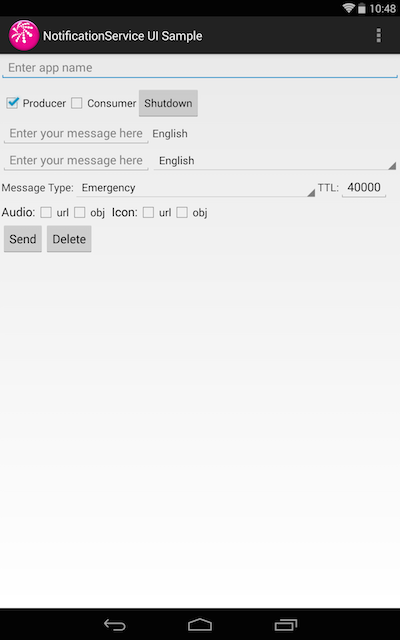
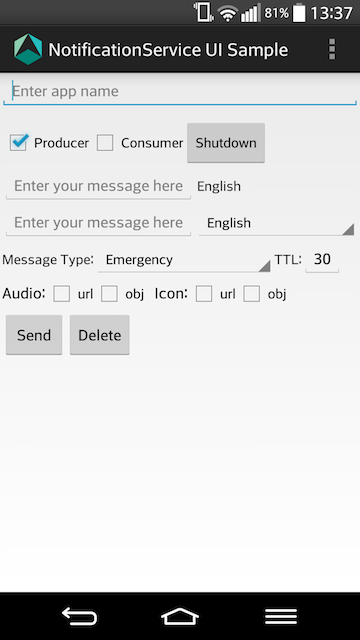
ASABASE-667 Onboarding Samples Docs/Process
clean up spelling mistakes and rephrased some sentences
add additional tips and information about other features of the notification sample app for android
update screenshots
add install process and path to notification sample apk. rephrase steps
update android notification copy to reflect that of the ios equivalent
update linux notification sample to include example output
add border to ios notification app screenshots
minor cleanup changes
update scripts, paths and output in base thin notification sample guide
fix use of wrong environment variable in path

diff --git a/docs/develop/run-sample-apps/notification/linux.md b/docs/develop/run-sample-apps/notification/linux.md
@@ -19,18 +19,94 @@ AJ_SERVICES_COMMON_LIB=$AJ_ROOT/core/alljoyn/build/linux/$TARGET_CPU/debug/dist/
 export LD_LIBRARY_PATH=$AJ_CPP_LIB:$AJ_NOTIFICATION_LIB:$AJ_SERVICES_COMMON_LIB:$LD_LIBRARY_PATH
 ```
 
+### Run the ProducerBasic Sample App
+
+In one of the terminal windows, run `ProducerBasic`:
+
+```sh
+$AJ_ROOT/core/alljoyn/build/linux/$TARGET_CPU/debug/dist/notification/bin/ProducerBasic
+```
+
+The output from `ProducerBasic` should look like this:
+```
+$AJ_ROOT/core/alljoyn/build/linux/$TARGET_CPU/debug/dist/notification/bin/ProducerBasic
+lstat: No such file or directory
+   0.210 TRACE    Notification external         .../NotificationService.cc:62 | NotificationService::initSend
+   0.210 TRACE    Notification external         ...n/cpp/src/Transport.cc:175 | Transport::startSenderTransport
+   0.211 TRACE    Notification external         ...n/cpp/src/Transport.cc:414 | Transport::cleanupNotificationProducerReceiverInternal start
+   0.211 TRACE    Notification external         ...n/cpp/src/Transport.cc:420 | Transport::cleanupNotificationProducerReceiverInternal end
+   0.211 TRACE    Notification external         ...n/cpp/src/Transport.cc:527 | Transport::cleanupNotificationProducerSender start
+   0.211 TRACE    Notification external         ...ionProducerReceiver.cc:106 | NotificationProducerReceiver::ReceiverThreadWrapper()
+   0.212 DEBUG    Notification external         ...n/cpp/src/Transport.cc:222 | Transport::startSenderTransport - registered NotificationProducerReceiver successfully.
+   0.213 DEBUG    Notification external         ...n/cpp/src/Transport.cc:237 | bind Session Port successfully for notification producer service
+   0.213 TRACE    Notification external         ...n/cpp/src/Transport.cc:459 | Transport::cleanupNotificationDismisserReceiverInternal start
+   0.213 TRACE    Notification external         ...n/cpp/src/Transport.cc:465 | Transport::cleanupNotificationDismisserReceiverInternal end
+   0.213 DEBUG    Notification external         ...ationDismisserSender.cc:47 | NotificationDismisserSender()  - Got objectpath=/notificationDismisser
+   0.213 TRACE    Notification external         ...n/cpp/src/Transport.cc:260 | Started Sender successfully
+   0.214 TRACE    Notification external         ...c/NotificationSender.cc:51 | Send Message called
+   0.214 DEBUG    Notification external         .../src/PayloadAdapter.cc:424 | Attempting to send messageId: 1879962717
+   0.215 DEBUG    Notification external         ...ionTransportProducer.cc:65 | Sent signal successfully
+   0.215 HL_DBG   Notification external         .../src/PayloadAdapter.cc:429 | Message sent successfully with messageId: 1879962717
+Notification sent!
+Hit Ctrl+C to exit the application
+```
+
 ### Run the ConsumerService Sample App
 
-In one of the terminal windows, run `ConsumerService`:
+In the other terminal window, run `ConsumerService`:
 
 ```sh
 $AJ_ROOT/core/alljoyn/build/linux/$TARGET_CPU/debug/dist/notification/bin/ConsumerService
 ```
 
-### Run the ProducerBasic Sample App
+The output from `ConsumerService` should look like this:
+```
+Begin Consumer Application. (Press CTRL+C to end application)
+Enter in a list of app names (separated by ';') you would like to receive notifications from.
+Empty list means all app names.
 
-In the other terminal window, run `ProducerBasic`:
+1.408 DEBUG    Notification external         ...NotificationService.cc:208 | Init receive
+1.408 DEBUG    Notification external         ...ionTransportConsumer.cc:73 | Registered the SignalHandler successfully
+1.408 DEBUG    Notification external         ...n/cpp/src/Transport.cc:292 | Match String is: type='signal',sessionless='t',interface='org.alljoyn.Notification'
+1.409 TRACE    Notification external         ...n/cpp/src/Transport.cc:414 | Transport::cleanupNotificationProducerReceiverInternal start
+1.409 TRACE    Notification external         ...n/cpp/src/Transport.cc:420 | Transport::cleanupNotificationProducerReceiverInternal end
+1.410 TRACE    Notification external         ...ionDismisserReceiver.cc:42 | NotificationDismisserReceiver::NotificationDismisserReceiver() - called()
+1.410 DEBUG    Notification external         ...ionDismisserReceiver.cc:79 | Registered the SignalHandler successfully
+1.410 DEBUG    Notification external         ...n/cpp/src/Transport.cc:333 | NotificationDismisserReceiver Match String is: type='signal',sessionless='t',interface='org.alljoyn.Notification.Dismisser'
+1.413 TRACE    Notification external         ...n/cpp/src/Transport.cc:459 | Transport::cleanupNotificationDismisserReceiverInternal start
+1.413 TRACE    Notification external         ...n/cpp/src/Transport.cc:465 | Transport::cleanupNotificationDismisserReceiverInternal end
+1.413 DEBUG    Notification external         ...ationDismisserSender.cc:47 | NotificationDismisserSender()  - Got objectpath=/notificationDismisser
+1.413 DEBUG    Notification external         ...n/cpp/src/Transport.cc:364 | Started Receiver successfully
+Waiting for notifications.
+1.679 ****** ERROR IPNS    IpNameServiceImpl .../IpNameServiceImpl.cc:7650 | Ignoring advertisement from 192.168.1.93 for 192.168.2.136 received on en0: ER_WARNING
+1.976 ****** ERROR IPNS    IpNameServiceImpl .../IpNameServiceImpl.cc:7650 | Ignoring advertisement from 192.168.1.93 for 192.168.2.136 received on en0: ER_WARNING
+1.977 ****** ERROR IPNS    IpNameServiceImpl .../IpNameServiceImpl.cc:7650 | Ignoring advertisement from 192.168.1.93 for 192.168.2.136 received on en0: ER_WARNING
+1.978 ****** ERROR IPNS    IpNameServiceImpl .../IpNameServiceImpl.cc:7650 | Ignoring advertisement from 192.168.1.93 for 192.168.2.136 received on en0: ER_WARNING
+2.474 DEBUG    Notification lepDisp1_1       ...ionTransportConsumer.cc:84 | Received Message from producer.
+******************** Begin New Message Received ********************
+Message Id: 1814180121
+Device Id: ProducerBasic
+Device Name: ProducerBasic
+App Id: 30464642393946452D374141382D3432
+App Name: DISPLAY_ALL
+Sender BusName: :_FVRAlI2.2
+Message Type 0 emergency
+Notification version: 2
+Language: en  Message: hello world
+Other parameters included:
+OriginalSender: :_FVRAlI2.2
+******************** End New Message Received ********************
 
-```sh
-$AJ_ROOT/core/alljoyn/build/linux/$TARGET_CPU/debug/dist/notification/bin/ProducerBasic
+Notification action (0-Nothing 1-Dismiss):
+2.910 ****** ERROR IPNS    IpNameServiceImpl .../IpNameServiceImpl.cc:7650 | Ignoring advertisement from 192.168.1.93 for 192.168.2.136 received on en0: ER_WARNING
+3.207 ****** ERROR IPNS    IpNameServiceImpl .../IpNameServiceImpl.cc:7650 | Ignoring advertisement from 192.168.1.93 for 192.168.2.136 received on en0: ER_WARNING
+3.208 ****** ERROR IPNS    IpNameServiceImpl .../IpNameServiceImpl.cc:7650 | Ignoring advertisement from 192.168.1.93 for 192.168.2.136 received on en0: ER_WARNING
+3.511 ****** ERROR IPNS    IpNameServiceImpl .../IpNameServiceImpl.cc:7650 | Ignoring advertisement from 192.168.1.93 for 192.168.2.136 received on en0: ER_WARNING
+5.355 ****** ERROR IPNS    IpNameServiceImpl .../IpNameServiceImpl.cc:7650 | Ignoring advertisement from 192.168.1.93 for 192.168.2.136 received on en0: ER_WARNING
+5.362 ****** ERROR IPNS    IpNameServiceImpl .../IpNameServiceImpl.cc:7650 | Ignoring advertisement from 192.168.1.93 for 192.168.2.136 received on en0: ER_WARNING
+5.363 ****** ERROR IPNS    IpNameServiceImpl .../IpNameServiceImpl.cc:7650 | Ignoring advertisement from 192.168.1.93 for 192.168.2.136 received on en0: ER_WARNING
+5.364 ****** ERROR IPNS    IpNameServiceImpl .../IpNameServiceImpl.cc:7650 | Ignoring advertisement from 192.168.1.93 for 192.168.2.136 received on en0: ER_WARNING
+0
+Nothing planed to do with the notification message id:1814180121
+End handling notification!!!
 ```

diff --git a/docs/develop/run-sample-apps/notification/thin-linux.md b/docs/develop/run-sample-apps/notification/thin-linux.md
@@ -13,77 +13,45 @@
    # <TARGET CPU> can be either x86_64, x86, or whatever value you set for CPU= when running SCons.
    export TARGET_CPU=<TARGET CPU>
    cd $AJ_ROOT/core/alljoyn/build/linux/$TARGET_CPU/release/dist/cpp/bin
+   
+   BASE_THIN_DIST_LIB=$AJ_ROOT/services/base_tcl/dist/lib
+   CORE_THIN_DIST_LIB=$AJ_ROOT/core/ajtcl/dist/lib
 
-   export LD_LIBRARY_PATH=`pwd`/../lib:$LD_LIBRARY_PATH
+   export LD_LIBRARY_PATH=`pwd`/../lib:$BASE_THIN_DIST_LIB:$CORE_THIN_DIST_LIB:$LD_LIBRARY_PATH
    # This sets the library path to load the liballjoyn.so shared library.
 
     ./alljoyn-daemon &
     ```
 
-3. Launch NotificationConsumerSample (in a new terminal).
+3. Launch NotificationConsumerSample (in a new terminal). Ensure LD_LIBRARY_PATH is set as above.
 
    ```sh
-   cd $AJ_ROOT/services/sample_apps/build/
+   cd $AJ_ROOT/services/base_tcl/build/release/samples
    ./NotificationConsumerSample
    ```
 
-4. Launch NotificationProducerSample (in a new terminal).
+4. Launch NotificationProducerSample (in a new terminal). Ensure LD_LIBRARY_PATH is set as above.
 
    ```sh
-   cd $AJ_ROOT/services/sample_apps/build/
+   cd $AJ_ROOT/services/base_tcl/build/release/samples
    ./NotificationProducerSample
    ``` 
 
-The output from NotificationProducerSample should look like this:
-
-```
-./NotificationProducerSample 
-000.000 PropertyStore.c:201 Set key [DeviceId] defaultValue [e7471a6ad4761b17ad169a3146fe6d1a]
-000.000 PropertyStore.c:148 Has key [DeviceName] default Value []
-000.000 PropertyStore.c:201 Set key [DeviceName] defaultValue [COMPANY GENERIC BOARD 6fe6d1a]
-000.000 PropertyStore.c:144 Has key [DeviceName] runtime Value [COMPANY GENERIC BOARD 6fe6d1a]
-Attempting to connect to bus 'org.alljoyn.BusNode'
-Connected to Routing Node with BusUniqueName=:yEmGBABV.3
-001.084 NotificationProducer.c:512 In SendNotification
-001.084 PropertyStore.c:144 Has key [DeviceId] runtime Value [e7471a6ad4761b17ad169a3146fe6d1a]
-001.084 PropertyStore.c:148 Has key [DefaultLanguage] default Value [en]
-001.084 PropertyStore.c:144 Has key [DeviceName] runtime Value [COMPANY GENERIC BOARD 6fe6d1a]
-001.084 PropertyStore.c:144 Has key [AppId] runtime Value [e7471a6ad4761b17ad169a3146fe6d1a]
-001.084 PropertyStore.c:148 Has key [AppName] default Value [Notifier]
-001.084 NotificationProducer.c:560 Generating random number for notification id
-001.084 NotificationProducer.c:481 In SendNotifySignal
-001.084 NotificationProducer.c:493 ***************** Notification id 860073951 delivered successfully with serial number 5 *****************
-AllJoyn disconnect
-```
+   This won't produce output (run the sample from ```$AJ_ROOT/services/base_tcl/build/debug/samples``` for output)
 
 The output from NotificationConsumerSample should look like this:
 
 ```
 ./NotificationConsumerSample 
-Attempting to connect to bus 'org.alljoyn.BusNode'
-Connected to Routing Node with BusUniqueName=:yEmGBABV.2
-000.000 NotificationConsumer.c:167 In SetSignalRules()
-000.000 NotificationConsumer.c:168 Adding Dismisser interface match.
-000.000 NotificationConsumer.c:176 Adding Notification interface match.
-000.000 NotificationConsumer.c:208 Adding Superagent interface match.
-000.099 aj_msg.c:1087 Discarding bad message AJ_ERR_NO_MATCH
-000.136 aj_msg.c:1087 Discarding bad message AJ_ERR_NO_MATCH
-000.136 aj_msg.c:1087 Discarding bad message AJ_ERR_NO_MATCH
-024.480 NotificationConsumer.c:749 Received Producer signal.
-024.480 NotificationConsumer.c:287 Received notification signal from sender :yEmGBABV.3
-024.480 aj_msg.c:1195 AJ_UnmarshalMsg(): AJ_ERR_NO_MORE
-024.480 aj_msg.c:1195 AJ_UnmarshalMsg(): AJ_ERR_NO_MORE
-024.480 aj_msg.c:1195 AJ_UnmarshalMsg(): AJ_ERR_NO_MORE
-024.480 aj_msg.c:1195 AJ_UnmarshalMsg(): AJ_ERR_NO_MORE
 ******************** Begin New Message Received ********************
-Message Id: 860073951
+Message Id: 1000189632
 Version: 2
-Device Id: e7471a6ad4761b17ad169a3146fe6d1a
-Device Name: COMPANY GENERIC BOARD 6fe6d1a
-App Id: BC096200000000001F01000003000000
-App Name: Notifier
+Device Id: 1609870266dc3e02f926ef98623b5126
+Device Name: COMPANY GENERIC BOARD 23b5126
+App Id: 1609870266DC3E02F926EF98623B5126
+App Name: Company A(EN)
 Message Type: 2
-OriginalSender bus unique name: :yEmGBABV.3
+OriginalSender bus unique name: :qWt-d9Uz.3
 Language: en  Message: Hello AJ World.
 Language: de-AT  Message: Hallo AJ Welt.
 Other parameters included:
@@ -97,8 +65,6 @@ Language: de-AT  Audio URL http://www.getAudio2.org
 Rich Content Icon Object Path: /icon/MyDevice
 Rich Content Audio Object Path: /audio/MyDevice
 ******************** End New Message Received ********************
-036.490 aj_guid.c:76 LookupName(): NULL
-036.491 aj_guid.c:76 LookupName(): NULL
 ```
 
 [build-thin-linux]: /develop/building/thin-linux

diff --git a/docs/develop/run-sample-apps/notification/android.md b/docs/develop/run-sample-apps/notification/android.md
@@ -1,20 +1,36 @@
 # Android - Notification Sample Apps
 
 ## Running Android NotificationServiceUISample
+
+### Prerequisites
+Open a terminal and navigate to the AllJoyn&trade; root dir, then, with an android device connected:
+
+```sh
+export AJ_ROOT=`pwd`
+adb install $AJ_ROOT/services/base/notification/java/sample_applications/android/NotificationServiceUISample/bin/NotificationServiceUISample.apk
+```
+
+### App Flow
 The Android NotificationServiceUISample provides a sample 
-Android implementation of an app that uses the Notification 
-service framework, which allows a user to both send and receive notifications.
+Android implementation of an app that uses the Notification service framework.
+
+You can use the NotificationServiceUISample app to act as a Notification Producer, a Notification Consumer, or both a Producer and Consumer, simultaneously.
+If you run the app as both a producer and consumer simultaneously, you will be able to send and receive notifications on a single Android device.
+
+Alternatively, you can run the app as a Producer on one device, and as a Consumer on another device.
+
+**NOTE:** Both devices must be on the same Wi-Fi network.
 
 1. On two or more devices, load the NotificationServiceUISample.apk, 
 and start app `NotificationService UI Sample`.
 
   ![][1.StartScreen]
 
-2. Check the **Consumer** checkbox for those app instances you want to receive notifications.
+2. Check the **Consumer** checkbox for the app instances which will be receiving notifications.
 
   ![][2.CheckConsumerCheckbox]
 
-3. Check the **Producer** checkbox for those app instances to which you want to send notifications.
+3. Check the **Producer** checkbox for the app instances which will be sending notifications.
 
   ![][3.CheckProducerCheckbox]
 
@@ -27,6 +43,17 @@ display the notification text and message type.
 
   ![][5.ConsumerReceivesHelloWorld]
 
+## Additional Tips
+You can select received notifications from the list to dismiss them or execute an action. Dismissing the notification will stop
+the producer from broadcasting the notification. Executing an action will toggle a remote bus objects boolean and display a toast indicating its current state.
+
+To receive a notification in a different language change the consumer language dropdown to your preferred choice. Note, this will not update
+notifications that were previously received and are currently displayed in the list.
+To send a notification in a different language, use the secondary message input and select the language of choice from the producers dropdown.
+
+To see an example of a notification with a url and object path select the audio or icon checkboxes before sending a notification from the producer.
+
+Pressing the "Delete" button will stop the producer from broadcasting the notification with the currently selected message type.
 
 [1.StartScreen]: /files/develop/run-sample-apps/android-notification-sample/1.StartScreen.png
 [2.CheckConsumerCheckbox]: /files/develop/run-sample-apps/android-notification-sample/2.CheckConsumerCheckbox.png

diff --git a/docs/learn/base-services/notification/index.md b/docs/learn/base-services/notification/index.md
@@ -81,16 +81,16 @@ is encouraged to fetch the control panel at the object path and render
 it to the user. Typically this is done to allow the consumer to perform
 an action associated with a notification.
 
-An example is if the oven has been left on for some, in addition to
-sending a notification, it can include a control panel to be rendered
-to provide to the user the option of turning off the oven.
+For example, the oven has been left on for some time. In addition to
+sending a notification, a control panel (to be rendered by the app)
+may be provided to the user to give them the option of turning off the oven.
 
 ### Custom Attributes
 
 A notification can contain any number of custom key/value pair attributes.
 The Consumer can optionally use this information to display a richer
 notification. Custom attributes are application-specific, so
-the Consumer needs to have special informationa about the
+the Consumer needs to have special information about the
 Producer in order to properly use the custom attributes
 
 As an example, imagine a radio sent a notification every time a
@@ -100,7 +100,7 @@ album art URL. A normal Consumer would receive the notification
 and only display the notification text, that is, the artist and
 title. But a Consumer that is aware of this Producer, could also
 get the album art URL and display that along with the
-notification text to provide a richer custom notificaiton.
+notification text to provide a richer custom notification.
 
 ## How It Works
 
@@ -113,8 +113,8 @@ the notification:
 
 * A concept of a TTL.
 
-* A mechanism for new Consumers to join the network to be informed
-  of previously broadcasted notifications whose TTL had not expired.
+* A mechanism for new Consumers to join the network and be informed
+  of previously broadcasted notifications whose TTL has not yet expired.
 
 The sessionless signal contains the full notification, including
 all supported languages, and full metadata. Refer to the [Notification
@@ -132,15 +132,15 @@ In summary, this is how things work:
 * Consumers joining the network later will also receive this signal
   and display the information.
 
-* When the TTL expires, the Procuder will stop broadcasting this
+* When the TTL expires, the Producer will stop broadcasting this
   sessionless signal. Consumers will stop displaying the notification
 
 * At any time, a Producer or Consumer can send a sessionless signal
-  to dismiss the notificaiton. Consumers, upon receiving this, will
+  to dismiss the notification. Consumers, upon receiving this, will
   stop displaying the notification.
 
-* A Consumer can connect to the Producer to request that the
-  notification stop being broadcasted.
+* A Consumer can connect to a Producer to request it to stop
+  broadcasting the notification.
 
 ## Learn More
 

diff --git a/docs/develop/run-sample-apps/notification/ios-osx.md b/docs/develop/run-sample-apps/notification/ios-osx.md
@@ -10,7 +10,7 @@ Producer and Consumer, simultaneously. If you run the app
 as both a producer and consumer simultaneously, you will be
 able to send and receive notifications on a single iOS device.
 
-Alternately, you can run the app as a Producer on one device,
+Alternatively, you can run the app as a Producer on one device,
 and as a Consumer on another device.
 
 **NOTE:** Both devices must be on the same Wi-Fi network.
@@ -64,7 +64,7 @@ on the same device or on a different device.
 
   ![][consumer-1]
 
-The application will now receive notifications.
+  The application will now receive notifications.
 
   ![][consumer-2]
 

diff --git a/docs/develop/run-sample-apps/notification/index.md b/docs/develop/run-sample-apps/notification/index.md
@@ -1,6 +1,6 @@
 # Running The Notification Samples
 
-There are two types of Notification sample applications, 
+There are two types of Notification applications, 
 a Producer and a Consumer. The power of the [Notification service framework][learn_notif] 
 is its simplicity and ability to allow devices to "talk" 
 to end users to provide meaningful information.
